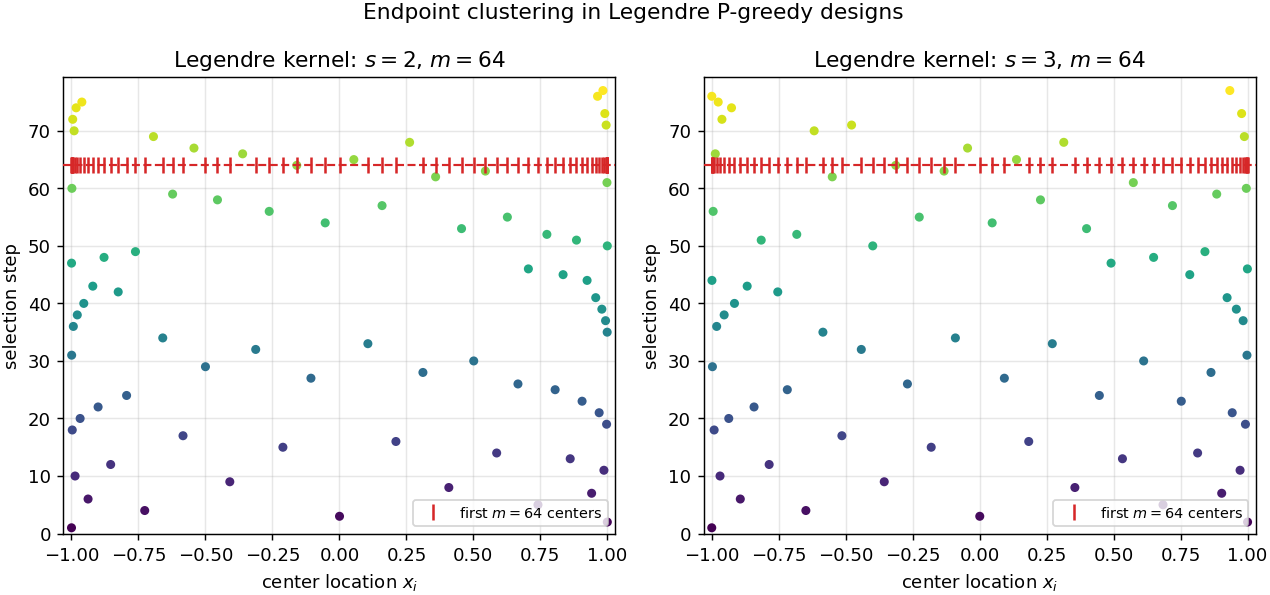
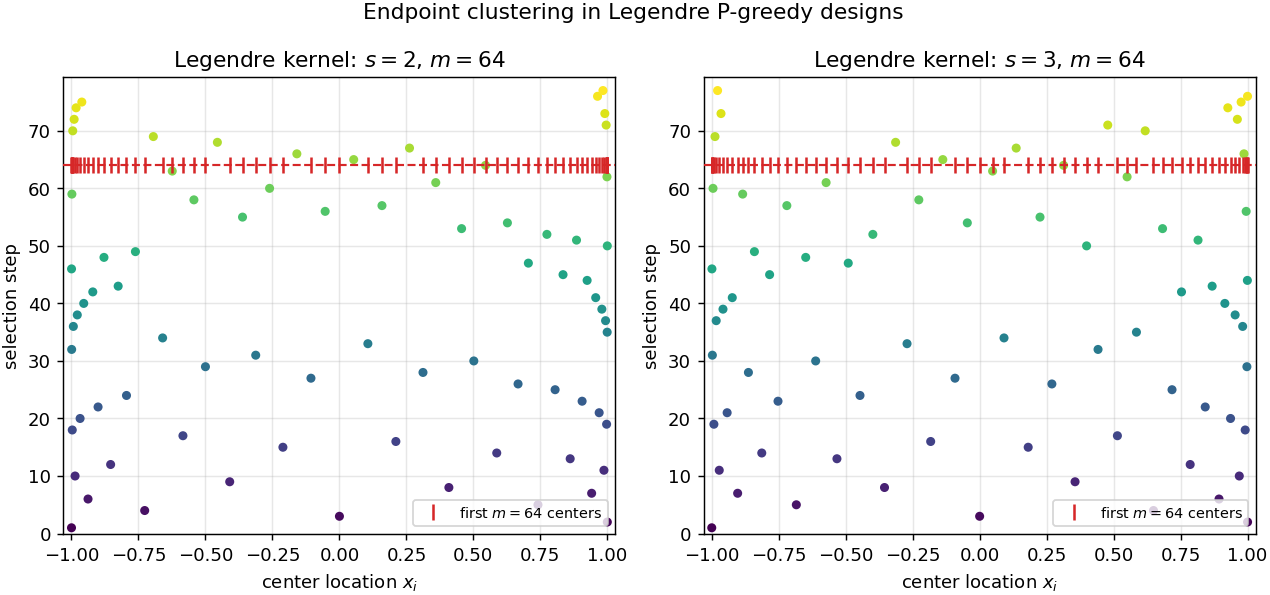
Regenerated figures

diff --git a/legendre.py b/legendre.py
@@ -17,7 +17,7 @@ The s=3 Gelfand upper estimate reaches the float64 feature-residual cancellation
 
 Running this module produces the two-panel comparison figure ``figures/legendre.png`` and
 the joint two-panel design figure ``figures/legendre_points.png`` for s=2 and s=3.
-The sampling estimate uses the established 20000-point Chebyshev grid.  s=2 keeps Pow^2 above the
+Both figures use the 20,000-point Chebyshev grid and Mercer truncation M=24,000.  s=2 keeps Pow^2 above the
 float64 cancellation floor out to large m; smoother kernels stop earlier as Pow^2 -> 0 hits tol_p.
 """
 
@@ -36,6 +36,11 @@ import widths
 
 torch.manual_seed(0)
 
+SMOOTHNESS_VALUES = (2.0, 3.0)
+MERCER_TRUNCATION = 24_000
+CANDIDATE_GRID_SIZE = 20_000
+ENDPOINT_LADDER_SIZE = 480
+POINT_DESIGN_SIZE = 64
 
 # Publication run: M=24000 keeps the omitted endpoint-energy scale below the smallest
 # widths tracked near n=1000.  This Mercer truncation is specific to the Legendre feature
@@ -44,12 +49,12 @@ torch.manual_seed(0)
 def _rates_panel(
     ax,
     s=2.0,
-    n_trunc=24000,
+    n_trunc=MERCER_TRUNCATION,
     max_iter=1000,
-    sel_grid=20000,
+    sel_grid=CANDIDATE_GRID_SIZE,
     cn_grid=5000,
     n_cap=1000,
-    edge_ladder=480,
+    edge_ladder=ENDPOINT_LADDER_SIZE,
     compress_irls=True,
 ):
     """Draw one Legendre sampling-vs-Gelfand panel on ``ax``."""
@@ -101,13 +106,13 @@ def _rates_panel(
 
 
 def comparison_figure(
-    smoothness_values=(2.0, 3.0),
-    n_trunc=24000,
+    smoothness_values=SMOOTHNESS_VALUES,
+    n_trunc=MERCER_TRUNCATION,
     max_iter=1000,
-    sel_grid=20000,
+    sel_grid=CANDIDATE_GRID_SIZE,
     cn_grid=5000,
     n_cap=1000,
-    edge_ladder=480,
+    edge_ladder=ENDPOINT_LADDER_SIZE,
     compress_irls=True,
     out="figures/legendre.png",
 ):
@@ -156,10 +161,10 @@ def comparison_figure(
 
 
 def points_figure(
-    smoothness_values=(2.0, 3.0),
-    m=64,
-    grid=4000,
-    n_trunc=4000,
+    smoothness_values=SMOOTHNESS_VALUES,
+    m=POINT_DESIGN_SIZE,
+    grid=CANDIDATE_GRID_SIZE,
+    n_trunc=MERCER_TRUNCATION,
     out="figures/legendre_points.png",
 ):
     """Compare Legendre P-greedy designs across smoothness values at one size."""

diff --git a/run_manuscript_figures.py b/run_manuscript_figures.py
@@ -24,11 +24,18 @@ import periodic_mixed
 
 COMPRESS_IRLS = False
 LEGENDRE_OPTIONS = {
-    "smoothness_values": (2.0, 3.0),
-    "sel_grid": 20_000,
-    "edge_ladder": 480,
+    "smoothness_values": legendre.SMOOTHNESS_VALUES,
+    "n_trunc": legendre.MERCER_TRUNCATION,
+    "sel_grid": legendre.CANDIDATE_GRID_SIZE,
+    "edge_ladder": legendre.ENDPOINT_LADDER_SIZE,
 }
-POINT_DESIGN_OPTIONS = {"smoothness_values": (2.0, 3.0), "m": 64}
+POINT_DESIGN_OPTIONS = {
+    "smoothness_values": legendre.SMOOTHNESS_VALUES,
+    "m": legendre.POINT_DESIGN_SIZE,
+    "grid": legendre.CANDIDATE_GRID_SIZE,
+    "n_trunc": legendre.MERCER_TRUNCATION,
+}
+
 
 STAGES = (
     {

diff --git a/README.md b/README.md
@@ -49,6 +49,8 @@ python paley_wiener.py
 
 The Matérn experiment is supplemental. Legendre and Matérn use `[-1,1]^d`, the
 periodic experiment uses `[0,1]^d`, and Paley–Wiener uses `[-1,1]`.
+Both Legendre figures use Mercer truncation `M=24,000` and a 20,000-point
+Chebyshev candidate grid.
 
 ## Publication run
 
@@ -58,8 +60,8 @@ Run the manuscript figures sequentially in the foreground:
 python run_manuscript_figures.py --output-dir runs/manuscript
 ```
 
-The runner writes figures, numerical arrays, `run.log`, and `status.json` to the output
-directory. Resume completed or interrupted stages with:
+The runner writes PNGs to `<output-dir>/figures/` and keeps numerical arrays,
+`run.log`, and `status.json` in the output directory. Resume completed or interrupted stages with:
 
 ```bash
 python run_manuscript_figures.py --output-dir runs/manuscript --resume
@@ -92,8 +94,8 @@ legendre.comparison_figure(compress_irls=False)
 ```
 
 Certified upper values use a branch-and-bound residual supremum when the kernel
-provides a rigorous cell modulus. Legendre uses a numerical supremum estimate, as do periodic kernels in
-dimension greater than one. The periodic spectral tail is exact at
+provides a rigorous cell modulus. Legendre uses a numerical supremum estimate, as do
+periodic kernels in dimension greater than one. The periodic spectral tail is exact at
 closed Fourier shells and provides an independent reference.
 
 ## Numerical caveats
